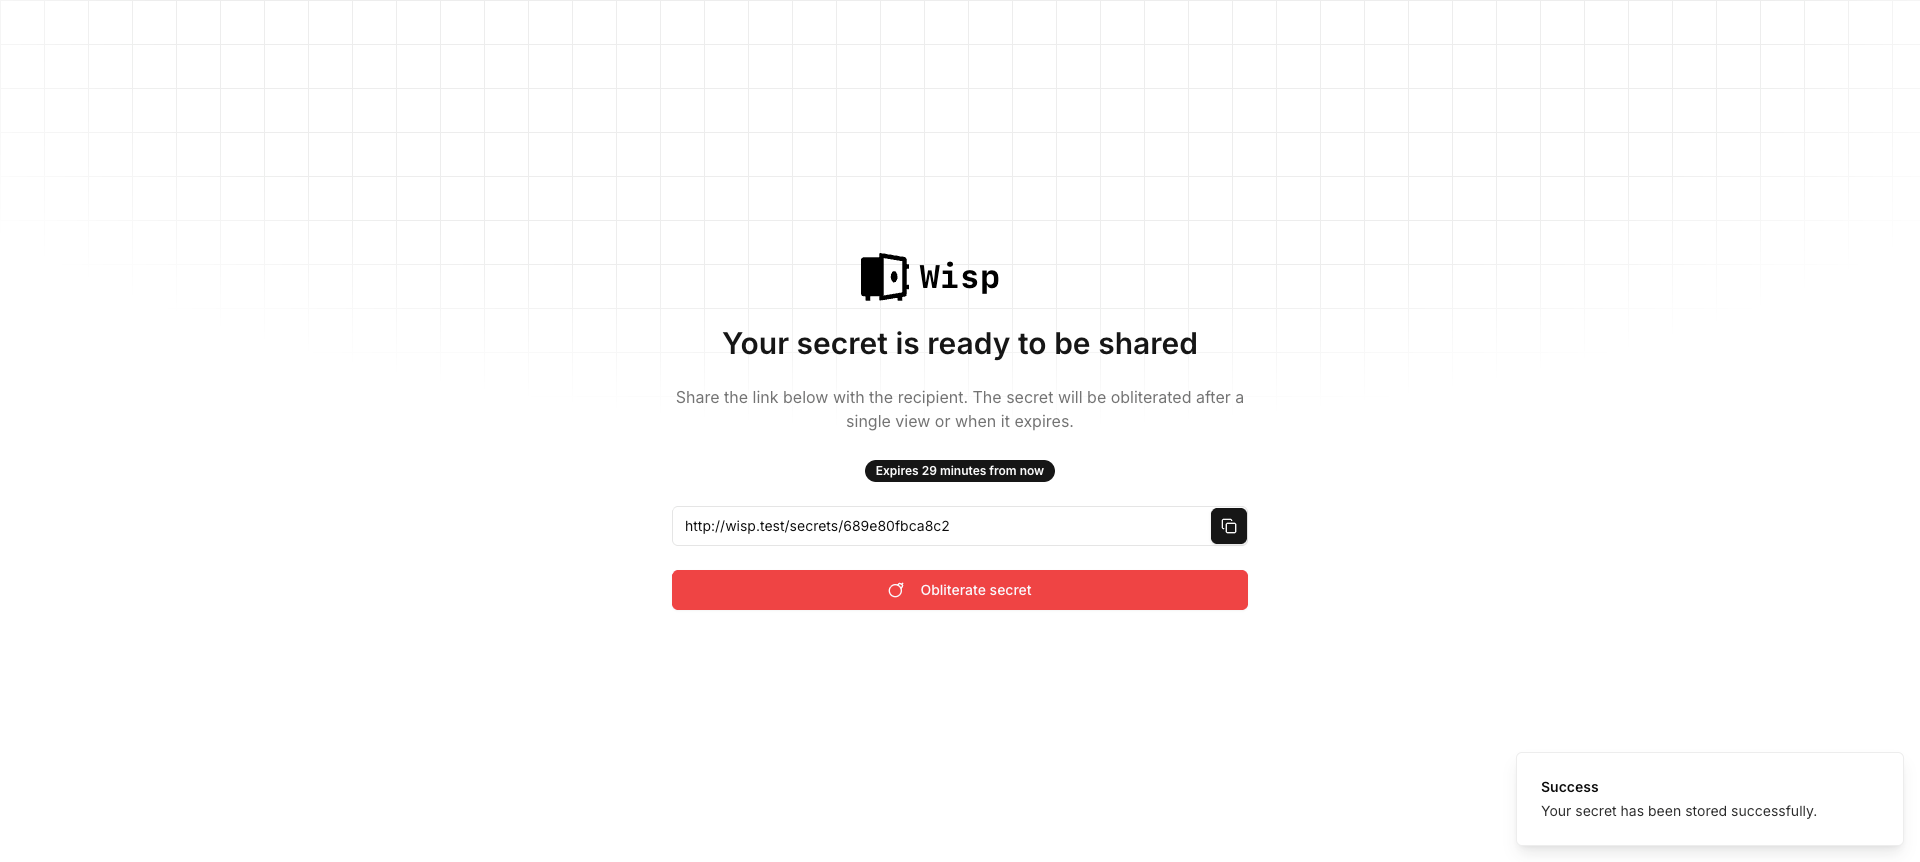
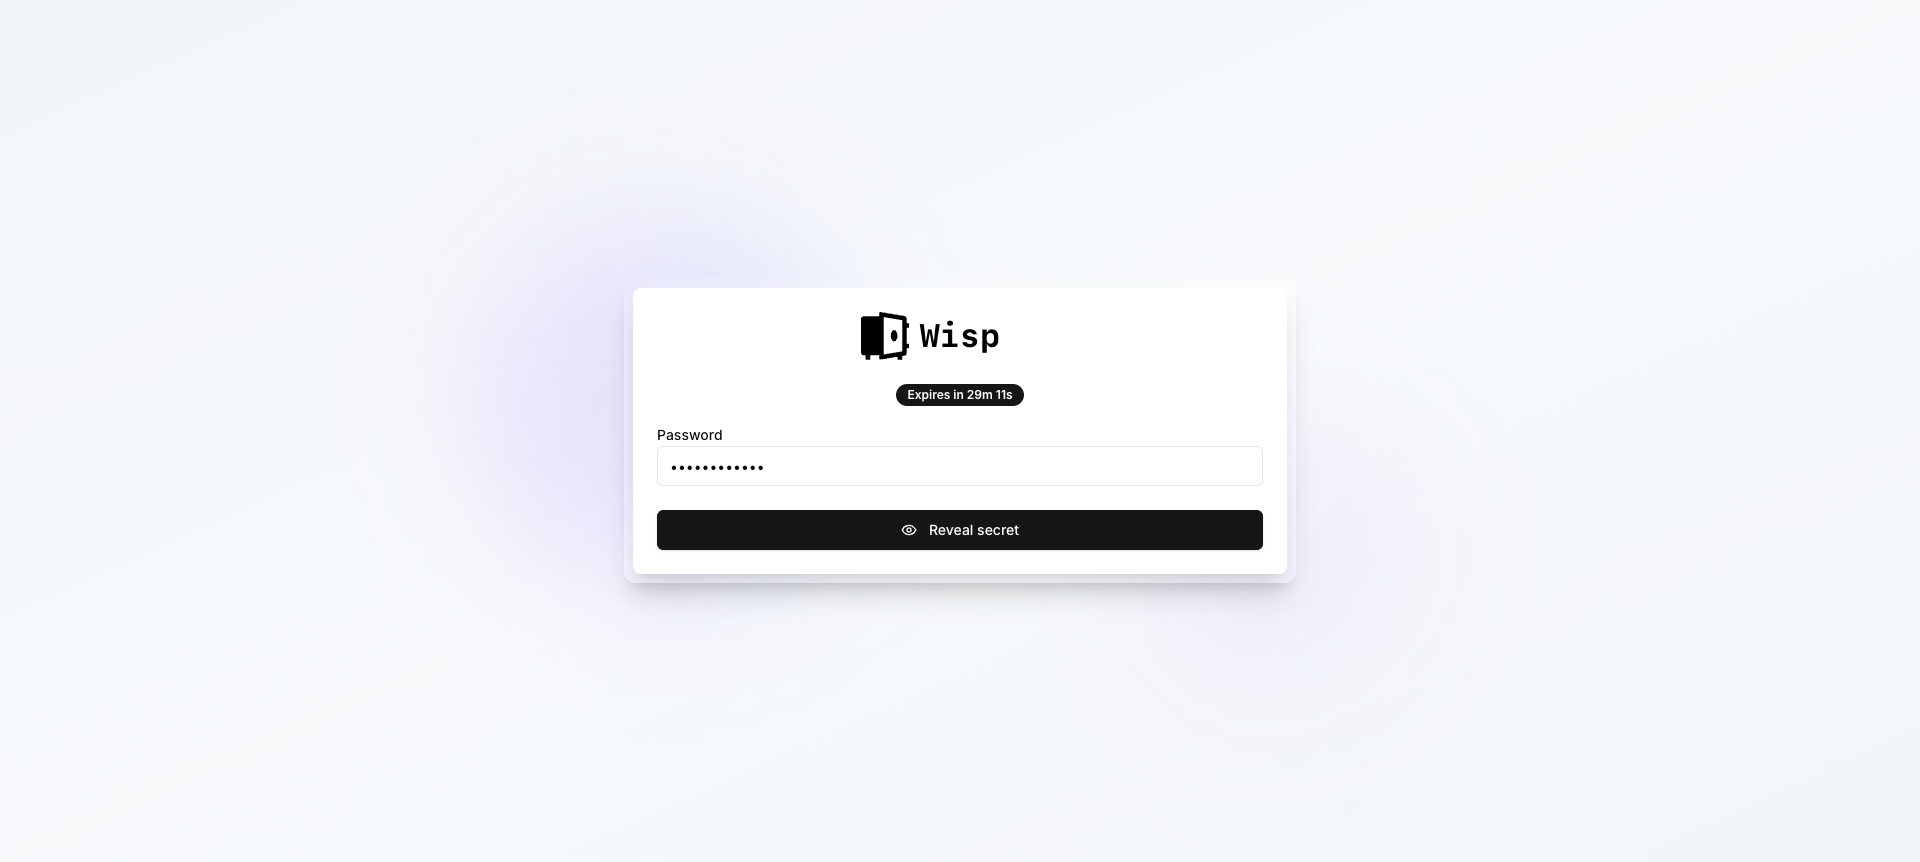
Update README and enhance visuals; modify Card component for glass effect and add glowing background to app layout

Changed region(s): [[0.2812, 0.2715, 0.6875, 0.7239], [0.8125, 0.9049, 0.9375, 0.9652]]

diff --git a/tailwind.config.js b/tailwind.config.js
@@ -14,6 +14,13 @@ export default {
             fontFamily: {
                 sans: ['Inter', ...defaultTheme.fontFamily.sans],
             },
+            animation: {
+                'pulse-slow': 'pulse 4s ease-in-out infinite',
+            },
+            animationDelay: {
+                '2000': '2s',
+                '4000': '4s',
+            },
             borderRadius: {
                 lg: 'var(--radius)',
                 md: 'calc(var(--radius) - 2px)',
@@ -73,5 +80,18 @@ export default {
             },
         },
     },
-    plugins: [require('tailwindcss-animate')],
+    plugins: [
+        require('tailwindcss-animate'),
+        function({ addUtilities }) {
+            const newUtilities = {
+                '.animation-delay-2000': {
+                    'animation-delay': '2s',
+                },
+                '.animation-delay-4000': {
+                    'animation-delay': '4s',
+                },
+            };
+            addUtilities(newUtilities);
+        }
+    ],
 };

diff --git a/resources/js/components/ui/card/Card.vue b/resources/js/components/ui/card/Card.vue
@@ -4,11 +4,17 @@ import type { HTMLAttributes } from 'vue';
 
 const props = defineProps<{
     class?: HTMLAttributes['class'];
+    glassBorder?: boolean;
 }>();
 </script>
 
 <template>
-    <div :class="cn('rounded-lg border bg-card text-card-foreground shadow-sm', props.class)">
+    <div v-if="props.glassBorder" class="p-2 rounded-xl bg-white/10 dark:bg-white/5 backdrop-blur-lg border border-white/20 dark:border-white/10 shadow-xl">
+        <div :class="cn('rounded-lg bg-card text-card-foreground shadow-sm border-0', props.class)">
+            <slot />
+        </div>
+    </div>
+    <div v-else :class="cn('rounded-lg border bg-card text-card-foreground shadow-sm', props.class)">
         <slot />
     </div>
 </template>

diff --git a/resources/js/pages/Welcome.vue b/resources/js/pages/Welcome.vue
@@ -75,7 +75,7 @@ function handleSubmit() {
     <Head title="One Time Secrets" />
     <div class="flex min-h-screen flex-col items-center lg:justify-center p-4 md:p-8 w-full">
         <form @submit.prevent="handleSubmit" class="w-full max-w-2xl">
-            <Card class="shadow-xl">
+            <Card glassBorder class="shadow-xl">
                 <CardHeader>
                     <AppLogo href="/" classes="h-12 mx-auto" title="Wisp" />
                     <CardDescription class="mt-2 space-y-3 text-center">

diff --git a/resources/js/pages/Secret.vue b/resources/js/pages/Secret.vue
@@ -82,7 +82,7 @@ async function obliterateSecret(callback?: () => void): Promise<void> {
     <Head title="One Time Secrets" />
     <div class="flex min-h-screen flex-col items-center lg:justify-center p-4 md:p-8 w-full">
         <div class="w-full max-w-2xl">
-            <Card class="shadow-xl">
+            <Card glassBorder class="shadow-xl">
                 <CardHeader>
                     <AppLogo href="/" classes="h-12 mx-auto" title="Wisp" />
                 </CardHeader>

diff --git a/resources/views/app.blade.php b/resources/views/app.blade.php
@@ -41,7 +41,17 @@
         @inertiaHead
     </head>
     <body class="font-sans antialiased text-foreground bg-background relative isolate overflow-x-hidden lg:overflow-visible">
-        <div class="absolute -z-10 bottom-0 left-0 right-0 top-0 bg-[linear-gradient(to_right,#ededed_1px,transparent_1px),linear-gradient(to_bottom,#ededed_1px,transparent_1px)] dark:bg-[linear-gradient(to_right,#262626_1px,transparent_1px),linear-gradient(to_bottom,#262626_1px,transparent_1px)] bg-[size:44px_44px] [mask-image:radial-gradient(ellipse_60%_50%_at_50%_0%,#000_70%,transparent_100%)]"></div>
+        <!-- Modern glowing orb background -->
+        <div class="fixed inset-0 -z-10">
+            <!-- Base gradient - lighter for light mode -->
+            <div class="absolute inset-0 bg-gradient-to-br from-slate-100 via-slate-50 to-slate-100 dark:from-black dark:via-slate-950 dark:to-black"></div>
+
+            <!-- Glowing orbs with blur effects -->
+            <div class="absolute top-1/4 left-1/4 w-96 h-96 bg-gradient-to-r from-purple-500/20 to-blue-500/15 dark:from-purple-500/30 dark:to-blue-500/20 rounded-full filter blur-3xl animate-pulse"></div>
+            <div class="absolute bottom-1/3 right-1/3 w-80 h-80 bg-gradient-to-l from-blue-600/18 to-indigo-600/22 dark:from-blue-600/25 dark:to-indigo-600/30 rounded-full filter blur-3xl animate-pulse animation-delay-2000"></div>
+            <div class="absolute top-1/2 right-1/4 w-72 h-72 bg-gradient-to-br from-violet-500/15 to-purple-600/18 dark:from-violet-500/20 dark:to-purple-600/25 rounded-full filter blur-3xl animate-pulse animation-delay-4000"></div>
+            <div class="absolute bottom-1/4 left-1/3 w-64 h-64 bg-gradient-to-tr from-cyan-500/12 to-blue-500/15 dark:from-cyan-500/15 dark:to-blue-500/20 rounded-full filter blur-3xl"></div>
+        </div>
         @inertia
     </body>
 </html>

diff --git a/README.md b/README.md
@@ -10,16 +10,13 @@ Wisp is a secure and straightforward application for sharing encrypted, one-time
 *Figure 1: Homepage - Create a new secret*
 
 ![Wisp Screenshot 2](public/images/2.png)
-*Figure 2: Secret creation form with options*
+*Figure 2: Generated secure link display*
 
 ![Wisp Screenshot 3](public/images/3.png)
-*Figure 3: Generated secure link display*
+*Figure 3: Password-protected secret access*
 
 ![Wisp Screenshot 4](public/images/4.png)
-*Figure 4: Password-protected secret access*
-
-![Wisp Screenshot 5](public/images/5.png)
-*Figure 5: Secret content display*
+*Figure 4: Secret content display*
 
 ## Table of Contents
 
